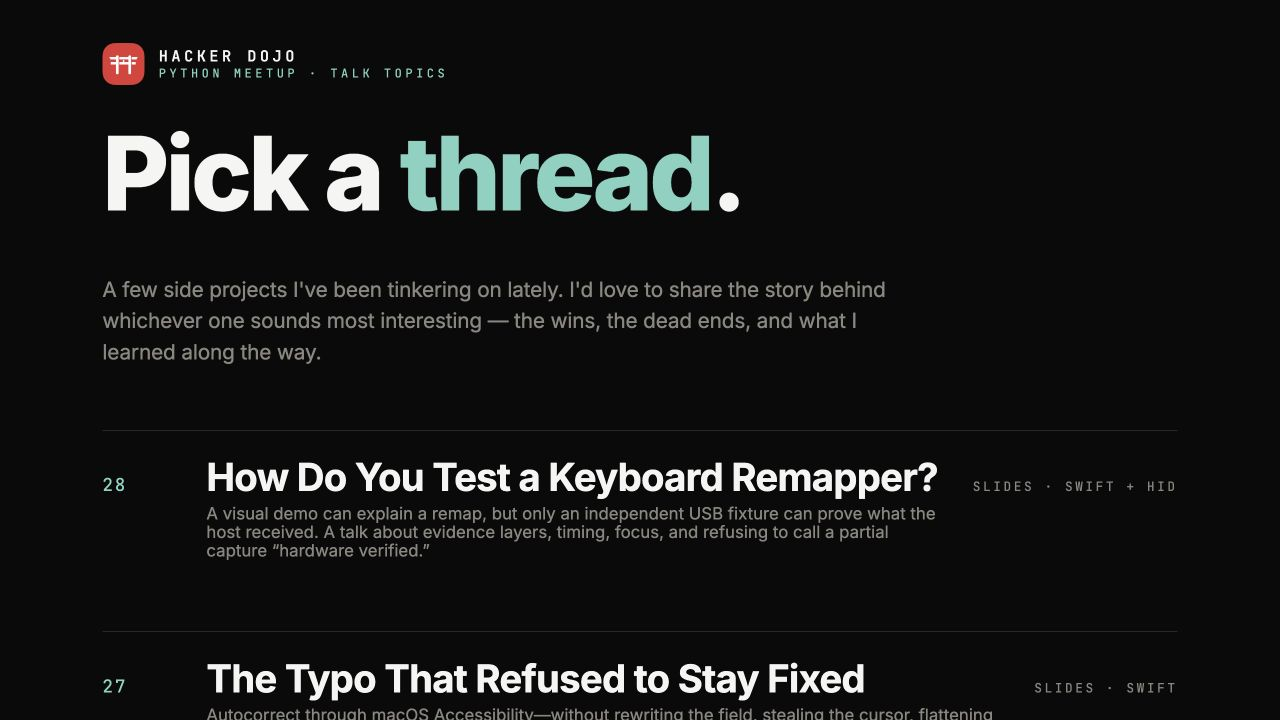
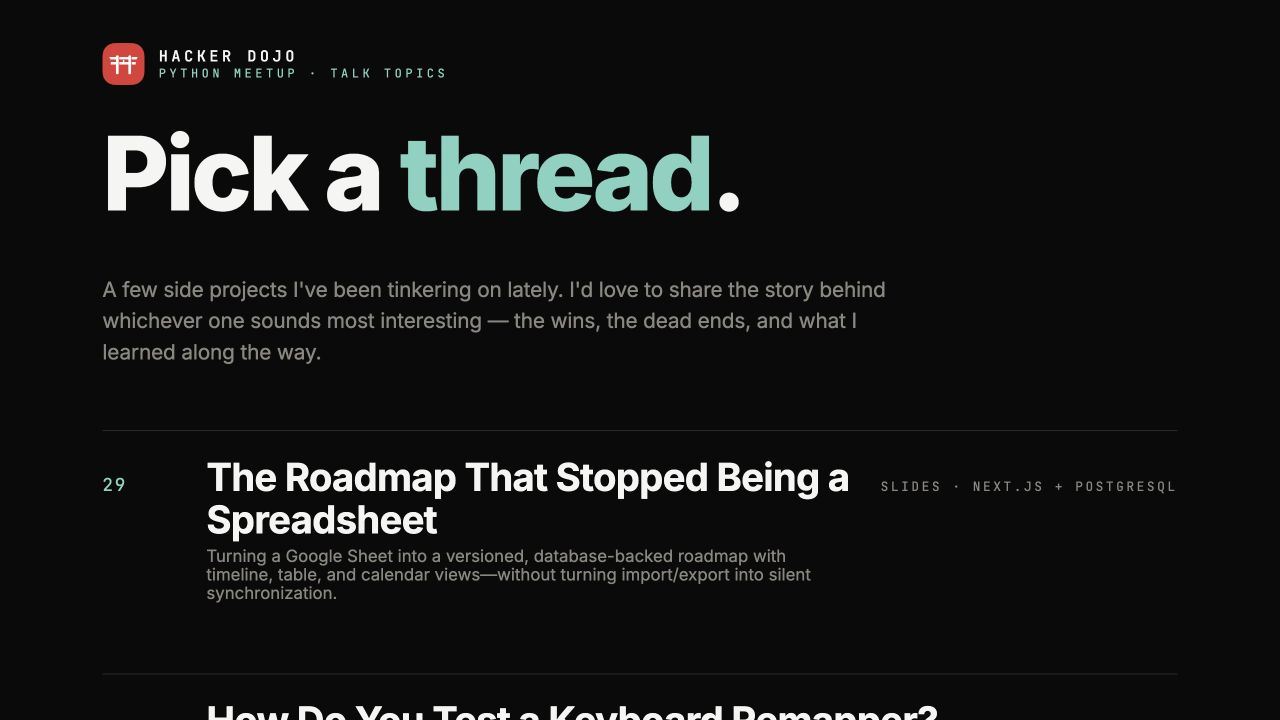
Add YARM roadmap talk

diff --git a/yarm/deck.html b/yarm/deck.html
@@ -1,0 +1,131 @@
+<!doctype html>
+<html lang="en">
+<head>
+  <meta charset="utf-8">
+  <meta name="viewport" content="width=device-width, initial-scale=1">
+  <title>The Roadmap That Stopped Being a Spreadsheet — YARM</title>
+  <link rel="preconnect" href="https://fonts.googleapis.com">
+  <link rel="preconnect" href="https://fonts.gstatic.com" crossorigin>
+  <link href="https://fonts.googleapis.com/css2?family=Bebas+Neue&family=Inter:wght@400;600;700;800&family=JetBrains+Mono:wght@400;700&display=swap" rel="stylesheet">
+  <link rel="stylesheet" href="https://cdn.jsdelivr.net/npm/reveal.js@5.1.0/dist/reset.css">
+  <link rel="stylesheet" href="https://cdn.jsdelivr.net/npm/reveal.js@5.1.0/dist/reveal.css">
+  <link rel="stylesheet" href="../shared/deck.css">
+  <style>
+    :root{--bg:#112426;--panel:#183135;--panel-2:#203c3f;--fg:#f5f7f2;--muted:#a8b7b5;--accent:#c7ff89;--accent-2:#ffc867;--rule:rgba(213,241,224,.18)}
+    .title-grid{grid-template-columns:1.05fr .95fr;gap:2.5vw}
+    .title-copy h1{font-size:2.05em;max-width:none}
+    .title-copy h1 span{display:block;white-space:nowrap}
+    .app-shot{border:1px solid var(--rule);background:var(--panel);overflow:hidden;box-shadow:0 2.5vh 6vh rgba(0,0,0,.25)}
+    .app-shot img{display:block;width:100%;height:64vh;object-fit:cover;object-position:top}
+    .title-slide figure{width:100%}
+    .title-slide .app-shot img{height:auto;aspect-ratio:16/9;object-fit:contain}
+    .full-image.app-shot{height:54vh}
+    .full-image.app-shot img{height:100%;object-fit:contain!important}
+    .calendar-shot img{object-position:center}
+    .artifact-label{display:inline-block;margin-top:.9em;padding:.55em .75em;border:1px solid var(--accent);color:var(--accent);font-family:'JetBrains Mono',monospace;font-size:.32em!important;letter-spacing:.1em;text-transform:uppercase}
+    .role-list{display:grid;grid-template-columns:repeat(2,1fr);gap:1.2vw;margin-top:1.2em}
+    .role-list article{border-top:3px solid var(--accent);background:var(--panel);padding:1em 1.1em;min-height:17vh}
+    .role-list h3{margin:0 0 .35em;font-size:.8em}
+    .role-list p{color:var(--muted);font-size:.52em;margin:0}
+    .title-slide .caption{margin-top:.7em!important}
+  </style>
+</head>
+<body>
+<div class="reveal"><div class="slides">
+  <section class="title-slide">
+    <div class="title-grid">
+      <div class="title-copy">
+        <p class="eyebrow">YARM · roadmap systems</p>
+        <h1><span>The Roadmap</span><span>That Stopped Being</span><span>a Spreadsheet</span></h1>
+        <p class="dek">A Sheet was a good place to begin. It was a terrible place to hold edits, views, history, and concurrent work.</p>
+        <p class="artifact-label">Real YARM UI · sanitized talk fixture</p>
+        <p class="byline">Micah Alpern · Hacker Dojo</p>
+      </div>
+      <figure>
+        <div class="app-shot"><img src="assets/timeline.png" alt="YARM timeline view showing Explore, Build, and Deliver phases with a sanitized product roadmap"></div>
+        <figcaption class="caption">Actual YARM timeline · synthetic project data</figcaption>
+      </figure>
+    </div>
+  </section>
+
+  <section class="statement">
+    <p class="eyebrow">The pressure test</p>
+    <h2>One spreadsheet was doing four different jobs.</h2>
+    <div class="role-list">
+      <article><h3>Source</h3><p>People needed a familiar place to bring roadmap data in and take it back out.</p></article>
+      <article><h3>Editor</h3><p>Changes needed validation, conflict handling, and a deliberate save boundary.</p></article>
+      <article><h3>History</h3><p>Every revision needed an accountable state—not a trail of duplicated tabs.</p></article>
+      <article><h3>Presentation</h3><p>Timeline, table, and calendar views needed the same facts without the same shape.</p></article>
+    </div>
+  </section>
+
+  <section class="split">
+    <div>
+      <p class="eyebrow">Timeline view</p>
+      <h2>A roadmap is an argument about time.</h2>
+      <p>The timeline makes sequence, overlap, and phase boundaries legible. It does not pretend that the visual arrangement is the underlying record.</p>
+    </div>
+    <figure>
+      <div class="full-image crop app-shot"><img src="assets/timeline.png" alt="YARM timeline with month cards and phase rail"></div>
+      <figcaption class="caption">Actual YARM timeline · synthetic project data</figcaption>
+    </figure>
+  </section>
+
+  <section>
+    <p class="eyebrow">The boundary</p>
+    <h2>Import is not synchronization.</h2>
+    <div class="flow">
+      <div class="step"><b>01 · Sheets</b><span>A familiar import and export surface.</span><small>Useful at the boundary; never silently authoritative after import.</small></div>
+      <div class="step"><b>02 · PostgreSQL</b><span>The current roadmap and its revisions.</span><small>Version checks reject stale edits instead of letting the last writer quietly win.</small></div>
+      <div class="step"><b>03 · YARM</b><span>Purpose-built views over one stored state.</span><small>Timeline, table, and calendar can disagree in presentation without disagreeing in facts.</small></div>
+    </div>
+  </section>
+
+  <section class="split reverse">
+    <figure>
+      <div class="full-image crop app-shot"><img src="assets/table.png" alt="YARM table view showing sanitized roadmap items and dates"></div>
+      <figcaption class="caption">Actual YARM table · synthetic project data</figcaption>
+    </figure>
+    <div>
+      <p class="eyebrow">Table view</p>
+      <h2>Keep the source-shaped structure visible.</h2>
+      <p>The table is where completeness becomes inspectable: titles, owners, status, dates, and stable IDs remain explicit instead of hiding behind pixels.</p>
+    </div>
+  </section>
+
+  <section class="split">
+    <div>
+      <p class="eyebrow">Calendar view</p>
+      <h2>Dates deserve a calendar, not a column hack.</h2>
+      <p>Events keep real dates and arbitrary years. The calendar view exposes collisions and quiet weeks without changing the underlying roadmap.</p>
+    </div>
+    <figure>
+      <div class="full-image app-shot calendar-shot"><img src="assets/calendar.png" alt="YARM August 2026 calendar showing a Prototype review milestone on August 21"></div>
+      <figcaption class="caption">Actual YARM calendar · synthetic project data</figcaption>
+    </figure>
+  </section>
+
+  <section>
+    <p class="eyebrow">Safety model</p>
+    <h2>Make every destructive ambiguity explicit.</h2>
+    <table class="truth-table">
+      <thead><tr><th>Moment</th><th>Tempting shortcut</th><th>YARM’s boundary</th></tr></thead>
+      <tbody>
+        <tr><td>Import</td><td>Treat the Sheet as a live mirror</td><td>Preview, then deliberately replace stored state</td></tr>
+        <tr><td>Edit</td><td>Let the last request win</td><td>Require the version the editor actually saw</td></tr>
+        <tr><td>History</td><td>Overwrite the only copy</td><td>Write a revision with every accepted state</td></tr>
+        <tr><td>Presentation</td><td>Store layout as truth</td><td>Preserve view overrides separately from roadmap facts</td></tr>
+      </tbody>
+    </table>
+  </section>
+
+  <section class="statement">
+    <p class="eyebrow">Takeaway</p>
+    <p class="quote">A roadmap is not a picture. It is a versioned argument about time.</p>
+    <p class="footer">YARM · a clear boundary between source, state, and view</p>
+  </section>
+</div></div>
+<script src="https://cdn.jsdelivr.net/npm/reveal.js@5.1.0/dist/reveal.js"></script>
+<script>Reveal.initialize({hash:true,slideNumber:'c/t',progress:true,transition:'fade',backgroundTransition:'fade'});</script>
+</body>
+</html>

diff --git a/index.html b/index.html
@@ -218,6 +218,16 @@
 
   <ol class="topics">
     <li>
+      <a href="yarm/deck.html" target="_blank" rel="noopener">
+        <span class="num">29</span>
+        <span class="title">
+          The Roadmap That Stopped Being a Spreadsheet
+          <span class="blurb">Turning a Google Sheet into a versioned, database-backed roadmap with timeline, table, and calendar views—without turning import/export into silent synchronization.</span>
+        </span>
+        <span class="meta">Slides · Next.js + PostgreSQL</span>
+      </a>
+    </li>
+    <li>
       <a href="keypath/deck.html" target="_blank" rel="noopener">
         <span class="num">28</span>
         <span class="title">

diff --git a/AUDIT.md b/AUDIT.md
@@ -1,8 +1,20 @@
 # New topic audit — 2026-07-29
 
-This pass covers topics 23–28. Every hero and supporting image is derived from a real project asset,
+This pass covers topics 23–29. Every hero and supporting image is derived from a real project asset,
 an actual project UI capture, an actual device image, or an official product image. No generated
-lifestyle scene is used. Meeting Memory screenshots use deterministic synthetic data.
+lifestyle scene is used. Meeting Memory and YARM screenshots use deterministic synthetic data.
+
+## 29 · YARM
+
+- **Creative audit:** A generic roadmap illustration would hide the exact thing that makes the project
+  interesting: one real data model rendered three different ways. The deck instead uses the actual YARM
+  timeline, table, and calendar, captured from an isolated database with a sanitized talk fixture.
+- **Content audit:** The story distinguishes Google Sheets import/export, PostgreSQL authority, revision
+  history, optimistic conflict checks, and presentation overrides. It does not describe import as live
+  synchronization or expose a private roadmap.
+- **Iteration:** Reframed the title around the spreadsheet-to-system transition, used YARM's own deep-teal
+  and lime visual language, moved a real August milestone into the calendar frame, and labeled every UI
+  capture as synthetic project data.
 
 ## 28 · KeyPath
 
@@ -67,7 +79,7 @@ lifestyle scene is used. Meeting Memory screenshots use deterministic synthetic 
 
 - All local `href` and `src` references resolve.
 - Every image has non-empty alternative text.
-- All six finished pages render without horizontal overflow at the 1280×720 audit viewport.
+- All seven finished pages render without horizontal overflow at the 1280×720 audit viewport.
 - Reduced-motion fallbacks are present in the shared deck and article systems.
 - Calendar Puck’s hardware source link returns HTTP 200.
 - Hero and internal-section screenshots are in `audit/`.
